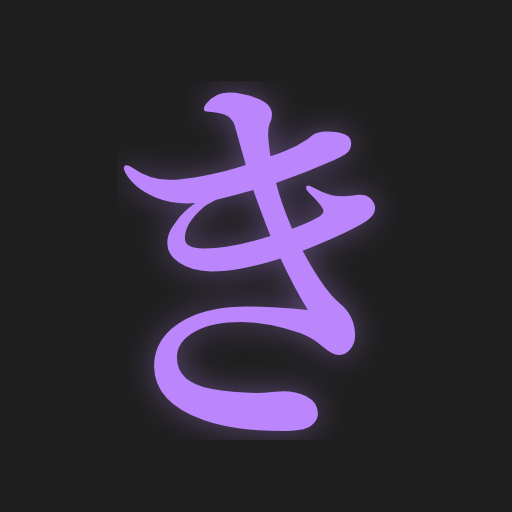
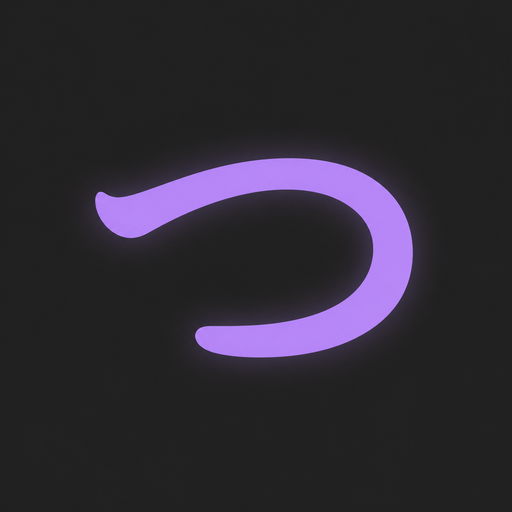
Polish furigana display controls and PWA branding

Changed region(s): [[0.1562, 0.1562, 0.8438, 0.875]]

diff --git a/frontend/index.html b/frontend/index.html
@@ -5,9 +5,9 @@
     <meta name="viewport" content="width=device-width, initial-scale=1.0, maximum-scale=1.0, user-scalable=no">
     <meta name="theme-color" content="#191724">
     <title>tsubuyaki</title>
-    <link rel="icon" type="image/png" href="regular-icon.png">
-    <link rel="apple-touch-icon" href="regular-icon.png">
-    <link rel="manifest" href="manifest.json">
+    <link rel="icon" type="image/png" href="regular-icon.png?v=3">
+    <link rel="apple-touch-icon" href="regular-icon.png?v=3">
+    <link rel="manifest" href="manifest.json?v=3">
     <meta name="apple-mobile-web-app-capable" content="yes">
     <meta name="apple-mobile-web-app-status-bar-style" content="black-translucent">
     <style>
@@ -136,9 +136,12 @@
         .status-pill.ready .status-dot { background: var(--rp-foam); box-shadow: 0 0 0 3px color-mix(in srgb, var(--rp-foam) 18%, transparent); }
         .status-pill.error .status-dot { background: var(--rp-love); box-shadow: 0 0 0 3px color-mix(in srgb, var(--rp-love) 18%, transparent); }
         .compact-btn { min-height: 34px; padding: 6px 11px; }
-        .toggle-btn[aria-pressed="true"] { color: var(--rp-base); background: var(--rp-foam); border-color: transparent; font-weight: 700; }
+        .furigana-mode-switch { display: inline-flex; align-items: center; gap: 2px; padding: 3px; border: 1px solid var(--rp-overlay); border-radius: 9px; background: var(--rp-surface); }
+        .furigana-mode-option { min-height: 28px; padding: 4px 9px; border: 0; border-radius: 6px; background: transparent; color: var(--rp-subtle); font: inherit; font-size: 0.76rem; font-weight: 650; cursor: pointer; white-space: nowrap; transition: color 0.16s ease, background 0.16s ease, box-shadow 0.16s ease; }
+        .furigana-mode-option:hover { color: var(--rp-text); background: color-mix(in srgb, var(--rp-overlay) 70%, transparent); }
+        .furigana-mode-option[aria-pressed="true"] { color: var(--rp-base); background: var(--rp-foam); box-shadow: 0 3px 10px color-mix(in srgb, var(--rp-foam) 18%, transparent); }
+        .furigana-mode-option:focus-visible { outline: 2px solid var(--rp-iris); outline-offset: 2px; }
         .ruby-size-control { display: inline-flex; align-items: center; gap: 7px; }
-        #opt-ruby-size { width: 86px; height: 18px; accent-color: var(--rp-iris); }
         #ruby-size-value { min-width: 38px; color: var(--rp-text); font-size: 0.78rem; font-variant-numeric: tabular-nums; }
         #gen-progress-row { padding: 0 16px 10px; background: var(--rp-surface); border-bottom: 1px solid var(--rp-overlay); }
 
@@ -151,7 +154,12 @@
         .media-error { position: absolute; inset: 0; display: flex; align-items: center; justify-content: center; padding: 24px; text-align: center; color: var(--rp-love); background: rgba(25, 23, 36, 0.92); line-height: 1.5; }
         
         /* Subtitles List */
-        #sub-list { flex: 1 1 auto; min-height: 0; overflow-x: hidden; overflow-y: auto; padding: 22vh 0; margin: 0; list-style: none; scroll-behavior: auto; background: var(--rp-base); position: relative; }
+        #sub-list { flex: 1 1 auto; min-height: 0; overflow-x: hidden; overflow-y: auto; padding: 22vh 0; margin: 0; list-style: none; scroll-behavior: auto; scrollbar-gutter: stable; scrollbar-width: thin; scrollbar-color: var(--rp-iris) var(--rp-surface); background: var(--rp-base); position: relative; }
+        #sub-list::-webkit-scrollbar { width: 11px; }
+        #sub-list::-webkit-scrollbar-track { background: var(--rp-surface); border-left: 1px solid var(--rp-overlay); }
+        #sub-list::-webkit-scrollbar-thumb { min-height: 48px; border: 2px solid var(--rp-surface); border-radius: 999px; background: var(--rp-iris); }
+        #sub-list::-webkit-scrollbar-thumb:hover { background: var(--rp-rose); }
+        #sub-list::-webkit-scrollbar-corner { background: var(--rp-surface); }
         #player-content.has-video #sub-list { padding: 8vh 0; }
         #sub-list li { 
             /* Grid Layout for stability: Star | Text */
@@ -244,6 +252,22 @@
         input[type=range]::-webkit-slider-runnable-track { width: 100%; height: 4px; background: transparent; }
         input[type=range]::-moz-range-thumb { height: 16px; width: 16px; border-radius: 50%; background: var(--rp-text); border: none; box-shadow: 0 1px 3px rgba(0,0,0,0.5); }
         input[type=range]::-moz-range-track { width: 100%; height: 4px; background: transparent; }
+
+        #opt-ruby-size {
+            --slider-progress: 40%;
+            width: 106px;
+            height: 6px;
+            border: 1px solid color-mix(in srgb, var(--rp-muted) 55%, transparent);
+            border-radius: 999px;
+            background: linear-gradient(to right, var(--rp-iris) 0 var(--slider-progress), var(--rp-overlay) var(--slider-progress) 100%);
+            box-shadow: inset 0 1px 2px rgba(10, 8, 18, 0.52), 0 0 0 1px rgba(224, 222, 244, 0.04);
+        }
+        #opt-ruby-size::-webkit-slider-runnable-track { height: 6px; border-radius: 999px; background: transparent; }
+        #opt-ruby-size::-webkit-slider-thumb { width: 18px; height: 18px; margin-top: -6px; border: 3px solid var(--rp-iris); background: var(--rp-text); box-shadow: 0 0 0 2px var(--rp-base), 0 3px 10px rgba(10, 8, 18, 0.65); }
+        #opt-ruby-size::-moz-range-track { height: 6px; border-radius: 999px; background: var(--rp-overlay); }
+        #opt-ruby-size::-moz-range-progress { height: 6px; border-radius: 999px; background: var(--rp-iris); }
+        #opt-ruby-size::-moz-range-thumb { width: 14px; height: 14px; border: 3px solid var(--rp-iris); background: var(--rp-text); box-shadow: 0 0 0 2px var(--rp-base), 0 3px 10px rgba(10, 8, 18, 0.65); }
+        #opt-ruby-size:focus-visible { outline: 2px solid var(--rp-foam); outline-offset: 5px; }
     
         .buttons-row { display: flex; justify-content: center; gap: 18px; align-items: center; }
         .round-btn { width: 42px; height: 42px; border-radius: 50%; border: 1px solid var(--border); background: var(--rp-overlay); color: var(--rp-text); font-size: 1rem; cursor: pointer; display: flex; align-items: center; justify-content: center; transition: all 0.1s; box-shadow: 0 2px 5px rgba(0,0,0,0.2); }
@@ -283,7 +307,11 @@
             .header-action, .icon-btn { min-width: 34px; width: 34px; padding: 0; }
             #furigana-toolbar { gap: 8px; }
             .toolbar-label.reading-size-label { display: none; }
+            .toolbar-group.display-options > .toolbar-label:first-child { display: none; }
             .toolbar-group.display-options { padding: 4px 7px; gap: 6px; }
+            .furigana-mode-option { min-height: 26px; padding: 3px 7px; font-size: 0.7rem; }
+            #opt-ruby-size { width: 68px; }
+            #ruby-size-value { min-width: 34px; }
             .toolbar-group.export-actions { gap: 5px; }
             .export-prefix { display: none; }
             .media-stage { flex-basis: 28vh; min-height: 145px; }
@@ -316,9 +344,10 @@
         rt.edited {
             color: var(--warn);
         }
-        .hide-furigana ruby rt {
-            display: none !important;
-        }
+        .furigana-hover ruby rt { visibility: hidden; opacity: 0; transition: opacity 0.14s ease, color 0.14s ease; }
+        .furigana-hover ruby:hover rt,
+        .furigana-hover ruby:focus rt,
+        .furigana-hover ruby:focus-within rt { visibility: visible; opacity: 1; }
         .ruby-segment {
             cursor: pointer;
             border-bottom: 1px dotted transparent;
@@ -327,6 +356,10 @@
         }
         .ruby-segment:hover {
             border-bottom-color: var(--primary);
+        }
+        .ruby-segment:focus-visible { outline: 2px solid var(--rp-iris); outline-offset: 3px; border-radius: 3px; }
+        @media (hover: none) {
+            .furigana-hover ruby rt { visibility: visible; opacity: 1; }
         }
         .gen-progress-container {
             display: flex;
@@ -537,7 +570,10 @@
             </div>
             <div class="toolbar-group display-options">
                 <span class="toolbar-label">Furigana</span>
-                <button class="btn compact-btn toggle-btn" id="btn-toggle-ruby" onclick="Furigana.toggleRuby()" aria-pressed="true">Hide</button>
+                <span class="furigana-mode-switch" role="group" aria-label="Furigana display mode">
+                    <button class="furigana-mode-option" id="btn-furigana-always" onclick="Furigana.setDisplayMode('always')" aria-pressed="true">Always</button>
+                    <button class="furigana-mode-option" id="btn-furigana-hover" onclick="Furigana.setDisplayMode('hover')" aria-pressed="false">On hover</button>
+                </span>
                 <span class="toolbar-label reading-size-label">Reading size</span>
                 <span class="ruby-size-control">
                     <input type="range" id="opt-ruby-size" min="30" max="80" value="50" oninput="Furigana.applyRubySize()" title="Reading size">
@@ -937,7 +973,7 @@
             });
             Input.init();
             if ('serviceWorker' in navigator) {
-                navigator.serviceWorker.register('service-worker.js').catch(err => console.warn('SW registration failed:', err));
+                navigator.serviceWorker.register('service-worker.js?v=3').catch(err => console.warn('SW registration failed:', err));
             }
         },
         async pickFile() {
@@ -1692,7 +1728,7 @@
     };
 
     const Furigana = {
-        visible: true,
+        displayMode: 'always',
         rubySize: 50,
         apiEndpoint: window.location.origin,
         isGenerating: false,
@@ -1701,19 +1737,18 @@
         activeEditRubyEl: null,
 
         init() {
-            this.visible = localStorage.getItem('ky_furi_visible') !== "false";
+            const savedMode = localStorage.getItem('ky_furi_mode');
+            const legacyHidden = localStorage.getItem('ky_furi_visible') === "false";
+            this.displayMode = savedMode === 'hover' || (!savedMode && legacyHidden) ? 'hover' : 'always';
             this.rubySize = Math.min(80, Math.max(30, parseInt(localStorage.getItem('ky_furi_size') || "50") || 50));
             this.apiEndpoint = localStorage.getItem('ky_furi_api') || window.location.origin;
 
-            const toggleButton = document.getElementById('btn-toggle-ruby');
-            toggleButton.textContent = this.visible ? "Hide" : "Show";
-            toggleButton.setAttribute('aria-pressed', String(this.visible));
             document.getElementById('opt-ruby-size').value = this.rubySize;
             document.getElementById('ruby-size-value').textContent = `${this.rubySize}%`;
             const apiEl = document.getElementById('opt-api-endpoint');
             if (apiEl) apiEl.value = this.apiEndpoint;
 
-            this.applyRubyVisibility();
+            this.applyRubyDisplayMode();
             this.applyRubySize();
         },
 
@@ -1724,31 +1759,28 @@
             this.checkBackendStatus();
         },
 
-        toggleRuby() {
-            this.visible = !this.visible;
-            localStorage.setItem('ky_furi_visible', this.visible);
-            const toggleButton = document.getElementById('btn-toggle-ruby');
-            toggleButton.textContent = this.visible ? "Hide" : "Show";
-            toggleButton.setAttribute('aria-pressed', String(this.visible));
-            this.applyRubyVisibility();
+        setDisplayMode(mode) {
+            this.displayMode = mode === 'hover' ? 'hover' : 'always';
+            localStorage.setItem('ky_furi_mode', this.displayMode);
+            this.applyRubyDisplayMode();
         },
 
-        applyRubyVisibility() {
+        applyRubyDisplayMode() {
             const subList = document.getElementById('sub-list');
             const focusText = document.getElementById('focus-text');
-            if (this.visible) {
-                subList.classList.remove('hide-furigana');
-                focusText.classList.remove('hide-furigana');
-            } else {
-                subList.classList.add('hide-furigana');
-                focusText.classList.add('hide-furigana');
-            }
+            const hoverOnly = this.displayMode === 'hover';
+            subList.classList.toggle('furigana-hover', hoverOnly);
+            focusText.classList.toggle('furigana-hover', hoverOnly);
+            document.getElementById('btn-furigana-always').setAttribute('aria-pressed', String(!hoverOnly));
+            document.getElementById('btn-furigana-hover').setAttribute('aria-pressed', String(hoverOnly));
         },
 
         applyRubySize() {
             const input = document.getElementById('opt-ruby-size');
             this.rubySize = Math.min(80, Math.max(30, parseInt(input.value) || 50));
             input.value = this.rubySize;
+            const progress = ((this.rubySize - 30) / (80 - 30)) * 100;
+            input.style.setProperty('--slider-progress', `${progress}%`);
             localStorage.setItem('ky_furi_size', this.rubySize);
             document.documentElement.style.setProperty('--ruby-size', (this.rubySize / 100) + 'em');
             document.getElementById('ruby-size-value').textContent = `${this.rubySize}%`;
@@ -1853,6 +1885,9 @@
                 } else if (seg.type === "ruby") {
                     const ruby = document.createElement("ruby");
                     ruby.className = "ruby-segment";
+                    ruby.tabIndex = 0;
+                    ruby.setAttribute('role', 'button');
+                    ruby.setAttribute('aria-label', `${seg.base}, reading ${seg.reading}. Edit reading`);
                     const baseText = document.createTextNode(seg.base);
                     const rt = document.createElement("rt");
                     rt.textContent = seg.reading;
@@ -1864,6 +1899,13 @@
                     ruby.onclick = (e) => {
                         e.stopPropagation();
                         Furigana.openEditRuby(seg, ruby);
+                    };
+                    ruby.onkeydown = (e) => {
+                        if (e.key === 'Enter' || e.key === ' ') {
+                            e.preventDefault();
+                            e.stopPropagation();
+                            Furigana.openEditRuby(seg, ruby);
+                        }
                     };
                     container.appendChild(ruby);
                 }

diff --git a/frontend/service-worker.js b/frontend/service-worker.js
@@ -1,10 +1,10 @@
-const CACHE_NAME = 'tsubuyaki-v2';
+const CACHE_NAME = 'tsubuyaki-v3';
 const ASSETS = [
   './',
   './index.html',
-  './manifest.json',
-  './maskable-icon.png',
-  './regular-icon.png'
+  './manifest.json?v=3',
+  './maskable-icon.png?v=3',
+  './regular-icon.png?v=3'
 ];
 
 self.addEventListener('install', (e) => {

diff --git a/backend/tests/unit/test_frontend_contract.py b/backend/tests/unit/test_frontend_contract.py
@@ -1,6 +1,7 @@
 from __future__ import annotations
 
 from pathlib import Path
+import struct
 
 
 FRONTEND_DIR = Path(__file__).resolve().parents[3] / "frontend"
@@ -45,6 +46,29 @@ def test_ruby_readings_render_above_base_text() -> None:
     assert 'id="ruby-size-value"' in html
 
 
+def test_furigana_display_mode_supports_always_and_hover() -> None:
+    html = (FRONTEND_DIR / "index.html").read_text(encoding="utf-8")
+
+    assert "Furigana display mode" in html
+    assert ">Always</button>" in html
+    assert ">On hover</button>" in html
+    assert "setDisplayMode('always')" in html
+    assert "setDisplayMode('hover')" in html
+    assert ".furigana-hover ruby rt" in html
+    assert "localStorage.setItem('ky_furi_mode'" in html
+
+
+def test_reading_slider_and_subtitle_scrollbar_use_rose_pine_styling() -> None:
+    html = (FRONTEND_DIR / "index.html").read_text(encoding="utf-8")
+
+    assert "--slider-progress" in html
+    assert "#opt-ruby-size::-webkit-slider-thumb" in html
+    assert "#opt-ruby-size::-moz-range-progress" in html
+    assert "scrollbar-color: var(--rp-iris) var(--rp-surface)" in html
+    assert "#sub-list::-webkit-scrollbar-thumb" in html
+    assert "#sub-list::-webkit-scrollbar-thumb:hover" in html
+
+
 def test_user_interface_is_english_only() -> None:
     html = (FRONTEND_DIR / "index.html").read_text(encoding="utf-8")
 
@@ -62,6 +86,8 @@ def test_user_interface_is_english_only() -> None:
     for english_text in (
         "Generate furigana",
         "Backend offline",
+        "Always",
+        "On hover",
         "Reading size",
         "Remove reading",
         "Keyboard shortcuts",
@@ -75,5 +101,17 @@ def test_pwa_brand_and_cache_are_updated() -> None:
 
     assert '"name": "tsubuyaki"' in manifest
     assert '"theme_color": "#191724"' in manifest
-    assert "tsubuyaki-v2" in service_worker
+    assert "tsubuyaki-v3" in service_worker
+    assert '"src": "regular-icon.png?v=3"' in manifest
+    assert '"src": "maskable-icon.png?v=3"' in manifest
     assert "fetch(e.request)" in service_worker
+
+
+def test_tsubuyaki_icons_are_valid_512_pixel_pngs() -> None:
+    for name in ("regular-icon.png", "maskable-icon.png"):
+        icon = FRONTEND_DIR / name
+        data = icon.read_bytes()
+        assert data.startswith(b"\x89PNG\r\n\x1a\n")
+        width, height = struct.unpack(">II", data[16:24])
+        assert (width, height) == (512, 512)
+        assert len(data) > 100_000